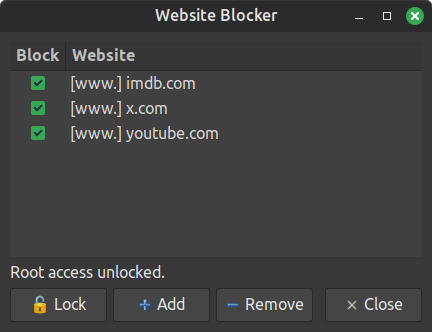
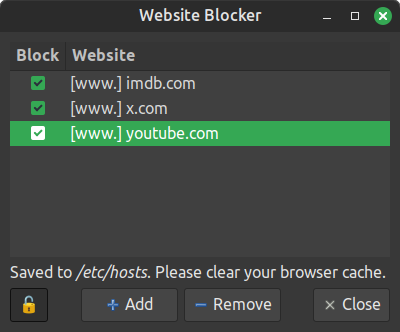
Update README.md, update 🔒 padlock status messages

diff --git a/website_blocker.py b/website_blocker.py
@@ -3,6 +3,7 @@ gi.require_version("Gtk", "3.0")
 from gi.repository import Gtk, Pango, GLib
 import re
 import select
+import warnings
 import shlex
 import subprocess
 import tempfile
@@ -13,6 +14,10 @@ DEBUG = 0
 
 WINDOW_WIDTH = 400
 WINDOW_HEIGHT = 300
+
+STATUS_LOCKED = "Click \U0001F512 to make changes."
+STATUS_UNLOCKED = "Click \U0001F513 for read-only mode."
+STATUS_INITIAL = STATUS_LOCKED
 
 HOSTS_FILEPATH = "/etc/hosts"
 MARKER_START = "# --- Website Blocker START ---"
@@ -159,24 +164,26 @@ class App(Gtk.Window):
         btn_box = Gtk.Box(spacing=6)
         box.pack_start(btn_box, False, False, 0)
 
-        btn_size_group = Gtk.SizeGroup(mode=Gtk.SizeGroupMode.HORIZONTAL)
-
-        self.unlock_btn = self._icon_button("Unlock", "\U0001F512")
+        self.unlock_btn = self._icon_button("", "\U0001F512", toggle=True)
         self.unlock_btn.connect("clicked", self.on_unlock)
+        self.unlock_btn.set_tooltip_text(STATUS_LOCKED)
         btn_box.pack_start(self.unlock_btn, False, False, 0)
-        btn_size_group.add_widget(self.unlock_btn)
+
+        btn_box.pack_start(Gtk.Box(), True, True, 0)
+
+        edit_size_group = Gtk.SizeGroup(mode=Gtk.SizeGroupMode.HORIZONTAL)
 
         self.add_btn = self._icon_button("Add", "list-add")
         self.add_btn.connect("clicked", self.on_add)
         self.add_btn.set_sensitive(False)
         btn_box.pack_start(self.add_btn, False, False, 0)
-        btn_size_group.add_widget(self.add_btn)
+        edit_size_group.add_widget(self.add_btn)
 
         self.remove_btn = self._icon_button("Remove", "list-remove")
         self.remove_btn.connect("clicked", self.on_remove)
         self.remove_btn.set_sensitive(False)
         btn_box.pack_start(self.remove_btn, False, False, 0)
-        btn_size_group.add_widget(self.remove_btn)
+        edit_size_group.add_widget(self.remove_btn)
 
         spacer = Gtk.Box()
         btn_box.pack_start(spacer, True, True, 0)
@@ -184,13 +191,14 @@ class App(Gtk.Window):
         close_btn = self._icon_button("Close", "window-close")
         close_btn.connect("clicked", lambda _: self.do_close())
         btn_box.pack_start(close_btn, False, False, 0)
-        btn_size_group.add_widget(close_btn)
-        box.set_focus_chain([btn_box, self.scroll])
+        with warnings.catch_warnings():
+            warnings.simplefilter("ignore", DeprecationWarning)
+            box.set_focus_chain([btn_box, self.scroll])
         self.connect("delete-event", lambda w, e: not self.do_close())
         if os.geteuid() == 0:
             self._on_unlocked()
         else:
-            self.set_status("Click \U0001F512 Unlock to make changes.")
+            self.set_status(STATUS_INITIAL)
             GLib.idle_add(self.unlock_btn.grab_focus)
 
     def _set_btn_content(self, btn, label, icon_name):
@@ -199,7 +207,8 @@ class App(Gtk.Window):
         inner = Gtk.Box(orientation=Gtk.Orientation.HORIZONTAL, spacing=4)
         inner.set_halign(Gtk.Align.CENTER)
         inner.pack_start(self._make_icon(icon_name), False, False, 0)
-        inner.pack_start(Gtk.Label(label=label), False, False, 0)
+        if label:
+            inner.pack_start(Gtk.Label(label=label), False, False, 0)
         btn.add(inner)
         inner.show_all()
 
@@ -214,16 +223,26 @@ class App(Gtk.Window):
         self.toggle_renderer.set_property("sensitive", False)
         self.text_renderer.set_property("editable", False)
         self.treeview.queue_draw()
-        self._set_btn_content(self.unlock_btn, "Unlock", "\U0001F512")
+        self._set_btn_content(self.unlock_btn, "", "\U0001F512")
+        self._set_unlock_active(False)
+        self.unlock_btn.set_sensitive(True)
+
+    def _set_unlock_active(self, active):
+        self.unlock_btn.handler_block_by_func(self.on_unlock)
+        self.unlock_btn.set_active(active)
+        self.unlock_btn.handler_unblock_by_func(self.on_unlock)
 
     def on_unlock(self, _):
-        if self._root_proc and self._root_proc.poll() is None:
+        if self._unlocked:
             self._revoke_root()
-            self.set_status("Root access revoked.")
-        else:
-            self.unlock_btn.set_sensitive(False)
-            self.set_status("Waiting for authentication…")
-            threading.Thread(target=self._unlock_thread, daemon=True).start()
+            self.unlock_btn.set_tooltip_text(STATUS_LOCKED)
+            self.set_status(STATUS_LOCKED)
+            GLib.idle_add(self.unlock_btn.grab_focus)
+            return
+        self._set_unlock_active(False)
+        self.unlock_btn.set_sensitive(False)
+        self.set_status("Waiting for authentication…")
+        threading.Thread(target=self._unlock_thread, daemon=True).start()
 
     def _unlock_thread(self):
         proc = subprocess.Popen(
@@ -235,7 +254,7 @@ class App(Gtk.Window):
         proc.stdin.write(b"echo __READY__\n")
         proc.stdin.flush()
         line = proc.stdout.readline()
-        if b"__READY__" in line and proc.poll() is None:
+        if (b"__READY__" in line and proc.poll() is None) or DEBUG:
             self._root_proc = proc
             GLib.idle_add(self._on_unlocked)
         else:
@@ -249,15 +268,19 @@ class App(Gtk.Window):
         self.toggle_renderer.set_property("sensitive", True)
         self.text_renderer.set_property("editable", True)
         self.treeview.queue_draw()
-        self._set_btn_content(self.unlock_btn, "Lock", "\U0001F513")
+        self._set_btn_content(self.unlock_btn, "", "\U0001F513")
+        self._set_unlock_active(True)
         self.unlock_btn.set_sensitive(True)
-        self.set_status("Root access unlocked.")
+        self.unlock_btn.set_tooltip_text(STATUS_UNLOCKED)
+        self.set_status(STATUS_UNLOCKED)
+        # GLib.timeout_add(2000, lambda: self.set_status(STATUS_UNLOCKED_HINT) or False)
+        GLib.idle_add(self.unlock_btn.grab_focus)
         return False
 
     def _on_unlock_failed(self):
         self.unlock_btn.set_sensitive(True)
-        self.unlock_btn.grab_focus()
         self.set_status("Authentication cancelled.")
+        GLib.idle_add(self.unlock_btn.grab_focus)
         return False
 
     def _autosave(self):
@@ -395,25 +418,25 @@ class App(Gtk.Window):
             return Gtk.Image.new_from_icon_name(icon_name, Gtk.IconSize.BUTTON)
         return Gtk.Label(label=icon_name)
 
-    def _icon_button(self, label, icon_name):
-        btn = Gtk.Button()
+    def _icon_button(self, label, icon_name, toggle=False):
+        btn = Gtk.ToggleButton() if toggle else Gtk.Button()
         inner = Gtk.Box(orientation=Gtk.Orientation.HORIZONTAL, spacing=4)
         inner.set_halign(Gtk.Align.CENTER)
         inner.pack_start(self._make_icon(icon_name), False, False, 0)
-        inner.pack_start(Gtk.Label(label=label), False, False, 0)
+        if label:
+            inner.pack_start(Gtk.Label(label=label), False, False, 0)
         btn.add(inner)
         return btn
 
 
 def on_resize(window, event):
     if DEBUG:
+        if not win._unlocked and event.width == WINDOW_WIDTH and event.height == WINDOW_HEIGHT:
+            return
         win.set_status(f"Window size: {event.width}×{event.height}")
 
 win = App()
 win.connect("destroy", Gtk.main_quit)
 win.connect("configure-event", on_resize)
 win.show_all()
-if DEBUG:
-    w, h = win.get_size()
-    win.set_status(f"Window size: {w}×{h}")
 Gtk.main()

diff --git a/README.md b/README.md
@@ -1,5 +1,8 @@
 # Website Blocker for Linux
 
+![Claude](https://img.shields.io/badge/Built_With-Claude-D97757?style=flat&logo=claude&logoColor=D97757)
+<!-- ![Claude](https://img.shields.io/badge/Built_With-Claude-D97757?style=flat&logo=claude&logoColor=D97757&labelColor=fff) -->
+
 Block websites to protect your time and focus. Uses `/etc/hosts` to block sites system-wide.
 
 ![Screenshots](screenshot.png)
@@ -16,8 +19,9 @@ Changes take effect immediately but browsers may need their DNS cache cleared:
 - Block and unblock websites instantly
 - Unblock websites temporarily via toggle
 - Blocks `www.` variant of each site automatically
-- Starts in read-only mode to see blocked websites.
-- Click <kbd>🔒 Unlock</kbd> to authenticate as root and make changes
+- Starts in read-only mode — click 🔒 to make changes (requires root password)
+- Click 🔓 again to return to read-only mode
+<!-- - Changes are saved automatically -->
 
 ## Requirements
 
@@ -50,7 +54,7 @@ python3 website_blocker.py
 
 Or launch from your application menu after installing.
 
-Click 🔒 **Unlock** to get root access. A password prompt will appear once — all subsequent saves happen without prompting.
+Click 🔒 to make changes — a password prompt will appear. Changes are saved automatically. Click 🔓 to return to read-only mode.
 
 ## How it works
 
